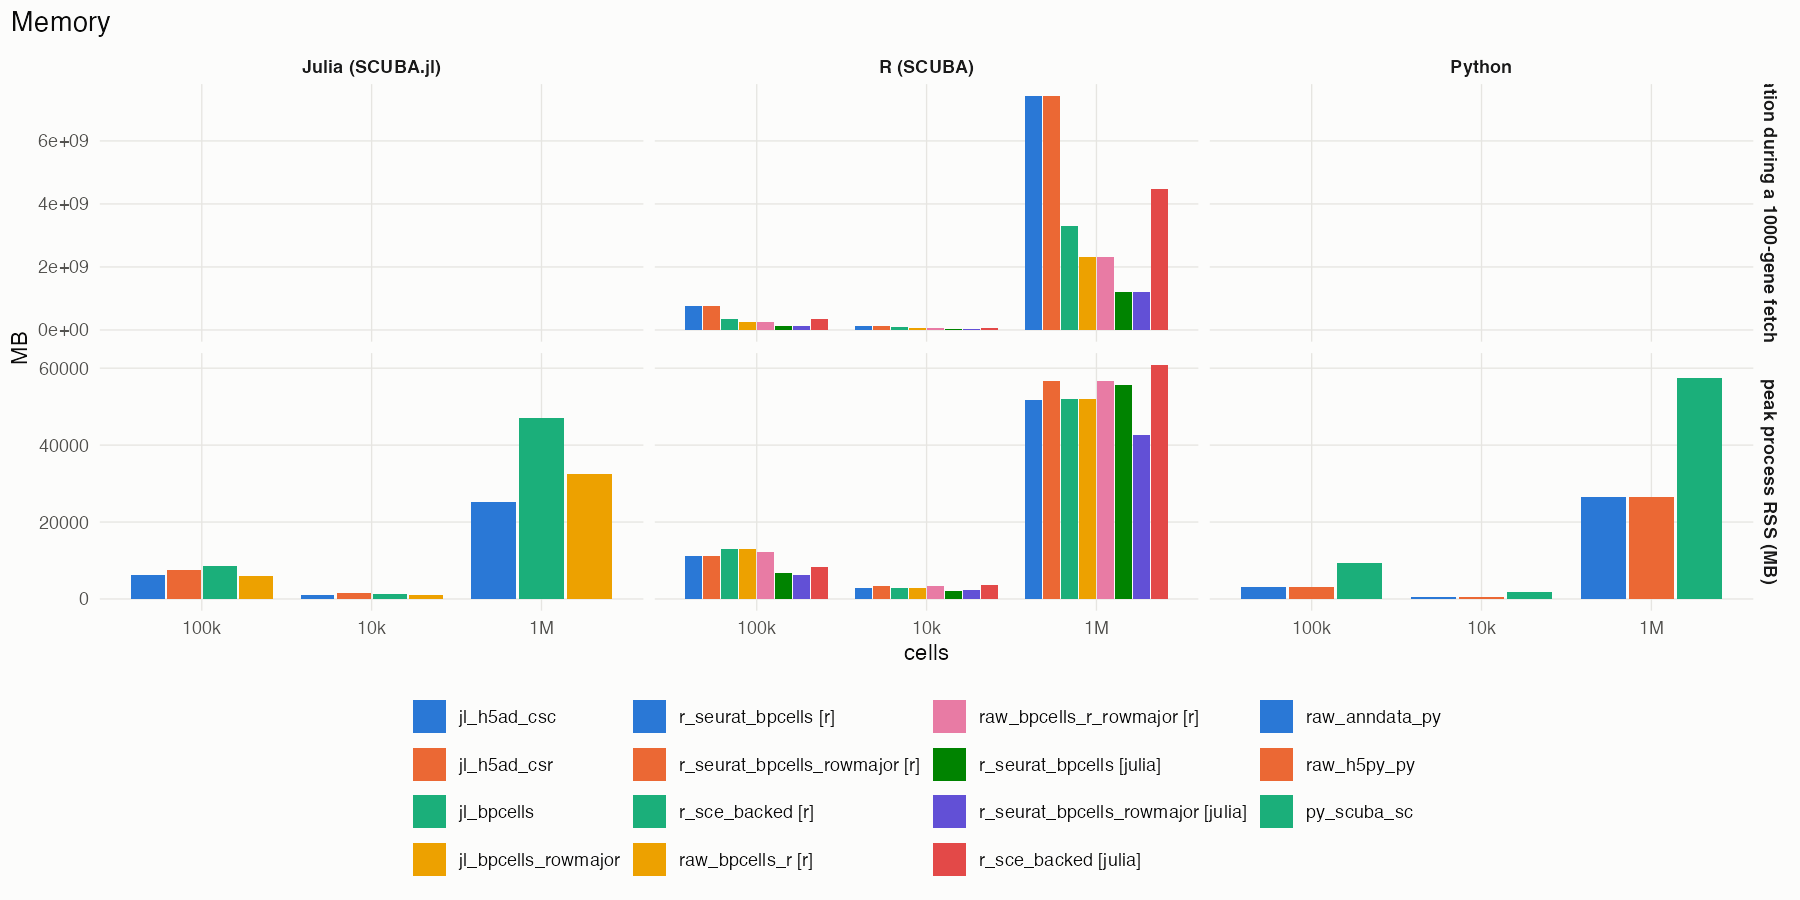
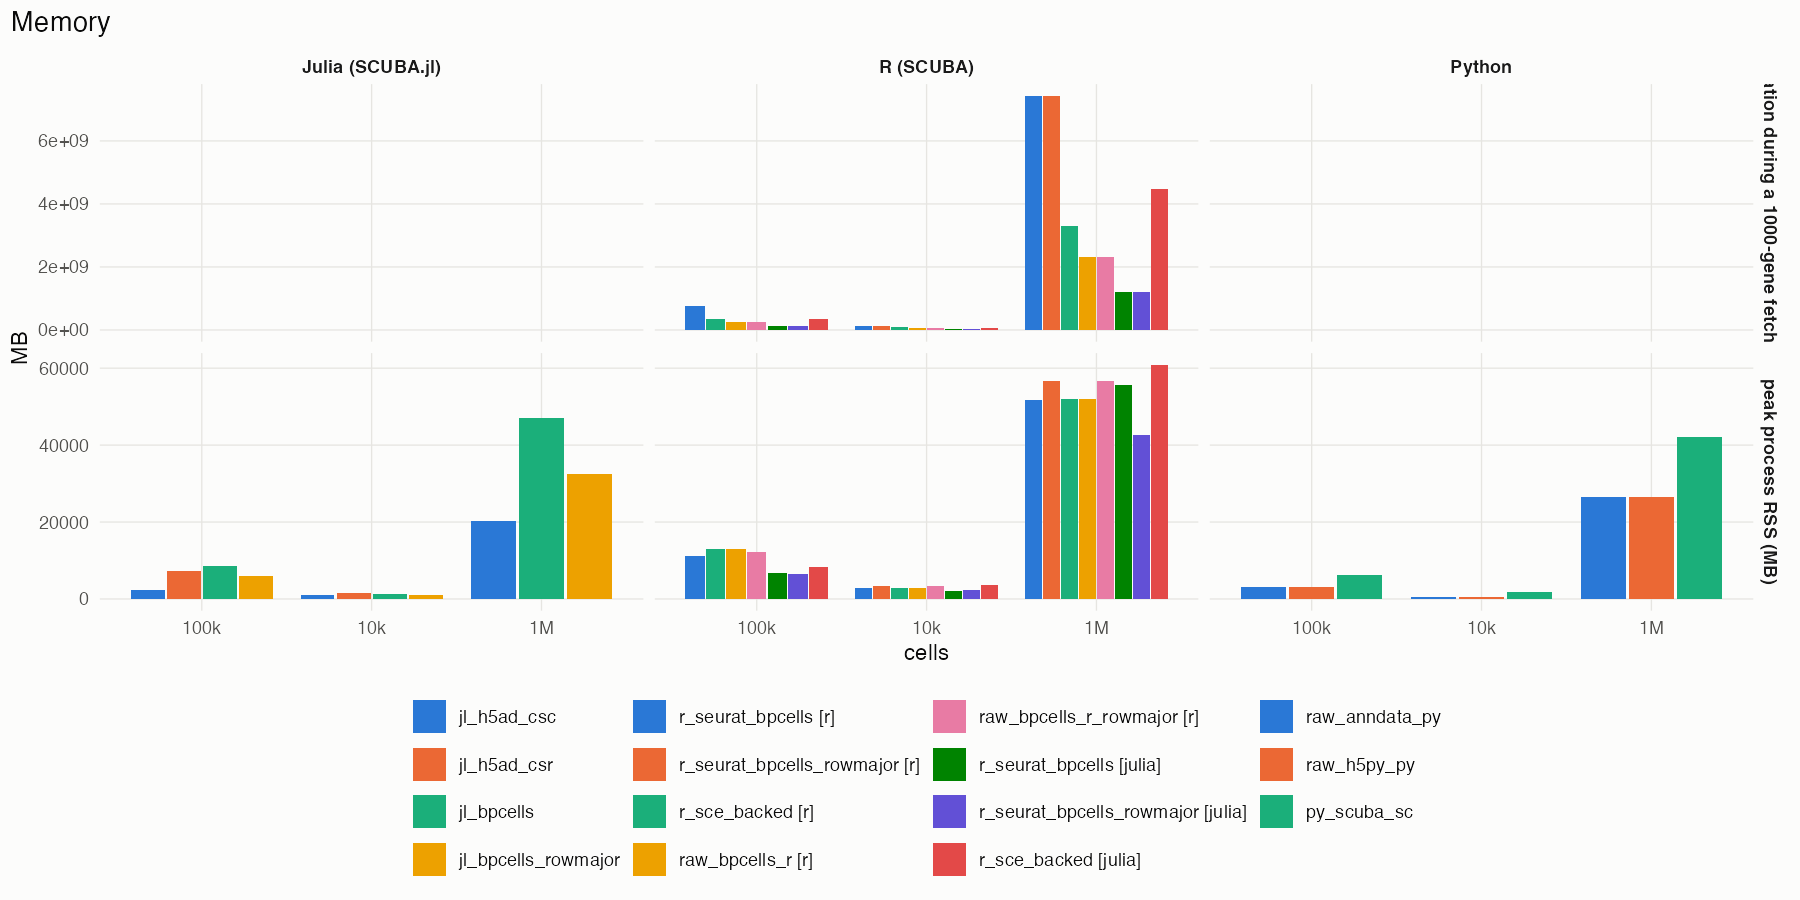
RCall extension: ship the R glue module and a precompile workload; merge keeps the latest run per cell
- The JuliaCall glue (module ScubaR) moves from an R string in the SCUBA R package into
  SCUBARCallExt so it is precompiled with the extension; the R package falls back to its
  embedded copy for older SCUBA.jl versions.
- PrecompileTools workload for the extension: starts embedded R explicitly (module __init__
  does not run while precompiling), installs the R helpers, builds tiny Seurat (dgCMatrix and
  BPCells in both storage orders) and SingleCellExperiment objects, and exercises every accessor
  and glue entry point. First call from R drops from ~1.4 s to ~0.6 s; the remainder is
  recompilation after JuliaCall loads (its RCall method additions invalidate the cached code).
- tools/build_sysimage.jl: --no-workload; RCall cannot be included on Julia 1.13
  (LLVM ERROR: Unsupported calling convention), see the memory/plan notes.
- bench: merge_results keeps only the most recent run id per implementation/scale/cache/kind
  so partial reruns supersede old rows; stale cold error rows removed; report regenerated with
  the fixed h5ad reader (jl_h5ad_csc 1000 genes at 1M: 8.7 s -> 1.0 s; py_scuba_sc 12.9 s -> 3.3 s).

diff --git a/bench/tools/merge_results.py b/bench/tools/merge_results.py
@@ -21,6 +21,7 @@ def main():
     ap = argparse.ArgumentParser()
     ap.add_argument("--results-dir", default=os.path.join(BENCH, "results"))
     ap.add_argument("--run-id", default=None)
+    ap.add_argument("--keep-all-runs", action="store_true", help="do not drop superseded runs")
     args = ap.parse_args()
     pattern = os.path.join(args.results_dir, "raw", args.run_id or "*", "*.csv")
     files = sorted(glob.glob(pattern))
@@ -36,6 +37,19 @@ def main():
         df["source_file"] = os.path.relpath(f, args.results_dir)
         frames.append(df)
     all_df = pd.concat(frames, ignore_index=True)
+    # Several run ids may cover the same (implementation, scale, cache_state) after a partial rerun:
+    # keep only the most recent run for each such cell so the report never mixes old and new code.
+    if "run_id" in all_df and all_df["run_id"].nunique() > 1 and not args.keep_all_runs:
+        # concurrency streams (phase == "concurrent") are produced by a different driver than the
+        # single-process harness, so they supersede each other independently
+        all_df["_kind"] = (all_df["phase"] == "concurrent").map({True: "concurrent", False: "single"})
+        key = ["implementation", "scale", "cache_state", "_kind"]
+        latest = all_df.groupby(key + ["run_id"])["timestamp"].max().reset_index()
+        latest = latest.sort_values("timestamp").drop_duplicates(key, keep="last")[key + ["run_id"]]
+        before = len(all_df)
+        all_df = all_df.merge(latest, on=key + ["run_id"], how="inner")
+        print(f"kept the latest run per implementation/scale/cache: {before} -> {len(all_df)} rows")
+    all_df = all_df.drop(columns=["_kind"], errors="ignore")
     for c in NUMERIC:
         if c in all_df:
             all_df[c] = pd.to_numeric(all_df[c], errors="coerce")

diff --git a/bench/report/summary.md b/bench/report/summary.md
@@ -1,6 +1,6 @@
 # SCUBA benchmark summary
 
-Generated 2026-10-20 23:34 MDT from `results.parquet` (844719 rows, 843976 ok).
+Generated 2026-10-21 00:30 MDT from `results.parquet` (843347 rows, 843242 ok).
 
 ## Interpretation
 
@@ -84,50 +84,48 @@ on its internal SSD.
 
 | implementation | genes=1 | genes=10 | genes=100 | genes=1000 |
 |---|---|---|---|---|
-| jl_h5ad_csc | 0.6 ms (IQR 0.5 ms–4.8 ms) | 7.3 ms (IQR 4.7 ms–7.9 ms) | 83.9 ms (IQR 77.2 ms–98.9 ms) | 909.5 ms (IQR 887.2 ms–939.8 ms) |
-| jl_h5ad_csr | 9.9 s (IQR 9.8 s–9.9 s) | 9.9 s (IQR 9.9 s–10.0 s) | 9.5 s (IQR 9.4 s–9.5 s) | 9.9 s (IQR 9.8 s–10.0 s) |
+| jl_h5ad_csc | 0.2 ms (IQR 0.2 ms–0.3 ms) | 1.4 ms (IQR 1.4 ms–1.4 ms) | 14.9 ms (IQR 14.4 ms–15.1 ms) | 119.0 ms (IQR 118.1 ms–119.6 ms) |
+| jl_h5ad_csr | 324.0 ms (IQR 313.6 ms–360.9 ms) | 326.0 ms (IQR 319.9 ms–330.2 ms) | 383.7 ms (IQR 371.7 ms–390.5 ms) | 421.4 ms (IQR 389.5 ms–428.1 ms) |
 | jl_bpcells | 317.3 ms (IQR 308.2 ms–322.9 ms) | 315.9 ms (IQR 305.4 ms–324.0 ms) | 367.6 ms (IQR 365.2 ms–371.8 ms) | 407.6 ms (IQR 402.0 ms–418.6 ms) |
 | jl_bpcells_rowmajor | 0.2 ms (IQR 0.2 ms–0.3 ms) | 0.8 ms (IQR 0.7 ms–0.8 ms) | 7.6 ms (IQR 7.2 ms–7.9 ms) | 70.9 ms (IQR 69.6 ms–71.8 ms) |
 | raw_anndata_py | 38.2 ms (IQR 37.2 ms–39.3 ms) | 40.6 ms (IQR 37.9 ms–41.2 ms) | 51.1 ms (IQR 47.4 ms–51.6 ms) | 113.5 ms (IQR 110.6 ms–115.5 ms) |
 | raw_h5py_py | 0.1 ms (IQR 0.1 ms–0.2 ms) | 1.2 ms (IQR 1.2 ms–1.2 ms) | 13.6 ms (IQR 12.8 ms–13.7 ms) | 134.5 ms (IQR 132.4 ms–135.3 ms) |
-| py_scuba_sc | 24.7 ms (IQR 23.4 ms–29.1 ms) | 37.3 ms (IQR 33.2 ms–61.0 ms) | 214.4 ms (IQR 206.1 ms–237.8 ms) | 1.5 s (IQR 1.5 s–1.5 s) |
+| py_scuba_sc | 1.2 ms (IQR 1.1 ms–1.2 ms) | 9.5 ms (IQR 4.7 ms–32.9 ms) | 88.4 ms (IQR 47.5 ms–93.7 ms) | 423.1 ms (IQR 368.1 ms–465.3 ms) |
 | r_seurat_bpcells [r] | 523.0 ms (IQR 519.0 ms–529.5 ms) | 595.0 ms (IQR 589.0 ms–616.0 ms) | 1.9 s (IQR 1.6 s–1.9 s) | 7.4 s (IQR 7.3 s–7.6 s) |
-| r_seurat_bpcells_rowmajor [r] | 223.0 ms (IQR 219.0 ms–229.5 ms) | 288.0 ms (IQR 281.0 ms–296.0 ms) | 1.2 s (IQR 1.2 s–1.5 s) | 6.9 s (IQR 6.9 s–7.1 s) |
 | r_sce_backed [r] | 50.0 ms (IQR 50.0 ms–54.0 ms) | 68.0 ms (IQR 67.0 ms–68.0 ms) | 264.0 ms (IQR 259.0 ms–273.0 ms) | 3.0 s (IQR 2.9 s–3.3 s) |
 | raw_bpcells_r [r] | 328.0 ms (IQR 317.5 ms–330.5 ms) | 328.0 ms (IQR 324.5 ms–333.0 ms) | 414.0 ms (IQR 409.5 ms–425.5 ms) | 781.0 ms (IQR 771.0 ms–1.1 s) |
 | raw_bpcells_r_rowmajor [r] | 10.0 ms (IQR 10.0 ms–10.0 ms) | 13.0 ms (IQR 13.0 ms–14.0 ms) | 55.0 ms (IQR 52.0 ms–58.0 ms) | 726.0 ms (IQR 439.0 ms–740.5 ms) |
 | r_seurat_bpcells [julia] | 316.0 ms (IQR 313.5 ms–319.0 ms) | 322.0 ms (IQR 319.0 ms–324.5 ms) | 432.0 ms (IQR 428.0 ms–438.5 ms) | 829.0 ms (IQR 773.0 ms–1.1 s) |
-| r_seurat_bpcells_rowmajor [julia] | 6.0 ms (IQR 5.0 ms–6.0 ms) | 9.0 ms (IQR 9.0 ms–12.5 ms) | 82.0 ms (IQR 44.5 ms–83.5 ms) | 480.0 ms (IQR 344.5 ms–768.5 ms) |
+| r_seurat_bpcells_rowmajor [julia] | 6.0 ms (IQR 6.0 ms–6.0 ms) | 10.0 ms (IQR 10.0 ms–10.0 ms) | 87.0 ms (IQR 51.0 ms–96.5 ms) | 462.0 ms (IQR 385.5 ms–809.5 ms) |
 | r_sce_backed [julia] | 19.0 ms (IQR 18.5 ms–25.0 ms) | 58.0 ms (IQR 57.0 ms–63.5 ms) | 485.0 ms (IQR 459.0 ms–501.0 ms) | 4.4 s (IQR 4.4 s–4.5 s) |
 
 ## 100k cells: metadata, reductions, cells (median)
 
 | implementation | fetch_cells:batch:b3 | fetch_cells:cell_type:T_cell | metadata:cell_type | metadata:full | metadata:nCount_RNA | reduction:X_pca|1-2 | reduction:X_pca|1-50 | reduction:X_umap|1-2 | unique_values:cell_type | unique_values:sample |
 |---|---|---|---|---|---|---|---|---|---|---|
-| jl_h5ad_csc | 13.1 ms | 13.9 ms | 5.8 ms | 29.1 ms | 0.2 ms | 19.7 ms | 496.8 ms | 18.3 ms | 1.3 ms | 1.3 ms |
-| jl_h5ad_csr | 12.6 ms | 13.4 ms | 5.7 ms | 29.8 ms | 0.2 ms | 18.9 ms | 512.7 ms | 17.5 ms | 1.3 ms | 1.3 ms |
+| jl_h5ad_csc | 12.7 ms | 14.1 ms | 5.6 ms | 29.7 ms | 0.2 ms | 18.3 ms | 454.7 ms | 18.1 ms | 1.4 ms | 1.3 ms |
+| jl_h5ad_csr | 12.7 ms | 13.7 ms | 6.1 ms | 29.0 ms | 0.2 ms | 20.4 ms | 470.1 ms | 19.0 ms | 1.4 ms | 1.4 ms |
 | jl_bpcells | 11.3 ms | 12.2 ms | 4.2 ms | 1.4 ms | 0.1 ms | 0.2 ms | 3.6 ms | 0.2 ms | 0.0 ms | 0.0 ms |
 | jl_bpcells_rowmajor | 12.8 ms | 13.8 ms | 4.5 ms | 1.5 ms | 0.1 ms | 0.2 ms | 3.8 ms | 0.2 ms | 0.0 ms | 0.0 ms |
 | raw_anndata_py | 98.6 ms | 103.8 ms | 200.5 ms | 0.1 ms | 0.1 ms | 0.7 ms | 1.8 ms | 0.2 ms | 192.1 ms | 185.0 ms |
-| py_scuba_sc | 24.2 ms | 35.3 ms | 225.9 ms | 88.5 ms | 24.3 ms | 45.8 ms | 599.4 ms | 44.9 ms | 1.6 ms | 1.5 ms |
+| py_scuba_sc | 24.3 ms | 33.2 ms | 197.9 ms | 59.9 ms | 1.6 ms | 20.2 ms | 559.6 ms | 18.6 ms | 1.5 ms | 1.5 ms |
 | r_seurat_bpcells [r] | 7.0 ms | 12.0 ms | 16.0 ms | 0.0 ms | 3.0 ms | 6.0 ms |  | 5.0 ms | 3.0 ms | 3.0 ms |
-| r_seurat_bpcells_rowmajor [r] | 7.0 ms | 11.0 ms | 15.0 ms | 1.0 ms | 3.0 ms | 5.0 ms |  | 4.0 ms | 4.0 ms | 3.0 ms |
 | r_sce_backed [r] | 5.0 ms | 8.0 ms | 16.0 ms | 8.0 ms | 4.0 ms | 25.0 ms |  | 25.0 ms | 5.0 ms | 5.0 ms |
 | r_seurat_bpcells [julia] | 19.0 ms | 21.0 ms | 26.0 ms | 188.0 ms | 8.0 ms | 16.0 ms | 198.0 ms | 16.0 ms | 25.0 ms | 25.0 ms |
-| r_seurat_bpcells_rowmajor [julia] | 20.0 ms | 21.0 ms | 27.0 ms | 154.0 ms | 8.0 ms | 15.0 ms | 184.0 ms | 16.0 ms | 26.0 ms | 25.0 ms |
+| r_seurat_bpcells_rowmajor [julia] | 6.0 ms | 10.0 ms | 14.0 ms | 0.0 ms | 3.0 ms | 4.0 ms |  | 4.0 ms | 3.0 ms | 3.0 ms |
 | r_sce_backed [julia] | 20.0 ms | 23.0 ms | 27.0 ms | 149.0 ms | 8.0 ms | 21.0 ms | 215.0 ms | 22.0 ms | 26.0 ms | 27.0 ms |
 
 ## 1M cells: feature fetch over all cells, warm (median, IQR)
 
 | implementation | genes=1 | genes=10 | genes=100 | genes=1000 |
 |---|---|---|---|---|
-| jl_h5ad_csc | 4.6 ms (IQR 2.8 ms–8.2 ms) | 59.0 ms (IQR 51.9 ms–74.3 ms) | 961.8 ms (IQR 870.5 ms–1.1 s) | 8.7 s (IQR 8.7 s–9.1 s) |
-| jl_h5ad_csr | 92.0 s (IQR 91.3 s–94.7 s) | NA | NA | NA |
+| jl_h5ad_csc | 1.2 ms (IQR 1.2 ms–1.3 ms) | 8.1 ms (IQR 7.9 ms–8.3 ms) | 74.9 ms (IQR 73.5 ms–77.6 ms) | 1.0 s (IQR 950.7 ms–1.2 s) |
+| jl_h5ad_csr | 3.7 s (IQR 3.2 s–3.7 s) | NA | NA | NA |
 | jl_bpcells | 3.2 s (IQR 3.2 s–3.2 s) | 3.3 s (IQR 3.3 s–3.3 s) | 3.8 s (IQR 3.8 s–3.8 s) | 5.0 s (IQR 4.9 s–5.0 s) |
 | jl_bpcells_rowmajor | 1.9 ms (IQR 1.9 ms–2.0 ms) | 8.2 ms (IQR 7.7 ms–8.3 ms) | 86.7 ms (IQR 86.0 ms–87.3 ms) | 1.7 s (IQR 1.6 s–1.9 s) |
 | raw_anndata_py | 497.4 ms (IQR 479.4 ms–500.7 ms) | 464.3 ms (IQR 459.3 ms–479.7 ms) | 504.2 ms (IQR 502.0 ms–519.1 ms) | 809.3 ms (IQR 807.3 ms–815.9 ms) |
 | raw_h5py_py | 0.1 ms (IQR 0.1 ms–0.1 ms) | 0.9 ms (IQR 0.8 ms–1.3 ms) | 13.1 ms (IQR 10.4 ms–14.6 ms) | 127.5 ms (IQR 126.8 ms–127.8 ms) |
-| py_scuba_sc | 157.9 ms (IQR 72.3 ms–181.0 ms) | 281.5 ms (IQR 254.9 ms–294.3 ms) | 1.5 s (IQR 1.4 s–1.6 s) | 12.9 s (IQR 12.1 s–13.2 s) |
+| py_scuba_sc | 7.7 ms (IQR 6.7 ms–16.8 ms) | 96.1 ms (IQR 89.8 ms–101.6 ms) | 426.0 ms (IQR 352.9 ms–482.2 ms) | 3.3 s (IQR 3.1 s–3.5 s) |
 | r_seurat_bpcells [r] | 5.5 s (IQR 5.5 s–5.6 s) | 6.5 s (IQR 6.2 s–6.6 s) | 14.2 s (IQR 14.0 s–14.3 s) | 70.6 s (IQR 69.9 s–73.0 s) |
 | r_seurat_bpcells_rowmajor [r] | 2.3 s (IQR 2.3 s–2.4 s) | 3.4 s (IQR 3.3 s–3.4 s) | 10.7 s (IQR 10.6 s–10.9 s) | 67.5 s (IQR 67.1 s–67.9 s) |
 | r_sce_backed [r] | 254.0 ms (IQR 251.0 ms–256.0 ms) | 438.0 ms (IQR 431.0 ms–450.0 ms) | 3.9 s (IQR 3.8 s–4.1 s) | 39.6 s (IQR 39.4 s–40.1 s) |
@@ -141,12 +139,12 @@ on its internal SSD.
 
 | implementation | fetch_cells:batch:b3 | fetch_cells:cell_type:T_cell | metadata:cell_type | metadata:full | metadata:nCount_RNA | reduction:X_pca|1-2 | reduction:X_pca|1-50 | reduction:X_umap|1-2 | unique_values:cell_type | unique_values:sample |
 |---|---|---|---|---|---|---|---|---|---|---|
-| jl_h5ad_csc | 147.0 ms | 157.7 ms | 56.5 ms | 389.6 ms | 1.7 ms | 204.9 ms | 4.9 s | 188.1 ms | 12.4 ms | 11.7 ms |
-| jl_h5ad_csr | 141.8 ms | 156.0 ms | 57.5 ms | 446.1 ms | 1.7 ms | 203.1 ms | 5.0 s | 187.9 ms | 13.4 ms | 12.0 ms |
+| jl_h5ad_csc | 140.6 ms | 143.1 ms | 59.9 ms | 441.2 ms | 1.3 ms | 196.6 ms | 4.8 s | 179.1 ms | 12.7 ms | 11.9 ms |
+| jl_h5ad_csr | 125.0 ms | 138.5 ms | 60.3 ms | 411.8 ms | 1.5 ms | 198.2 ms | 4.8 s | 182.4 ms | 12.8 ms | 12.1 ms |
 | jl_bpcells | 136.0 ms | 149.3 ms | 44.5 ms | 16.1 ms | 1.2 ms | 2.4 ms | 33.6 ms | 2.4 ms | 0.1 ms | 0.1 ms |
 | jl_bpcells_rowmajor | 132.8 ms | 142.0 ms | 44.8 ms | 15.6 ms | 1.1 ms | 2.3 ms | 35.2 ms | 2.3 ms | 0.1 ms | 0.1 ms |
 | raw_anndata_py | 55.3 ms | 85.2 ms | 130.3 ms | 0.3 ms | 0.3 ms | 12.4 ms | 44.9 ms | 0.6 ms | 108.9 ms | 78.1 ms |
-| py_scuba_sc | 236.1 ms | 331.5 ms | 212.4 ms | 954.4 ms | 66.6 ms | 397.9 ms | 5.5 s | 379.4 ms | 14.2 ms | 13.3 ms |
+| py_scuba_sc | 272.2 ms | 344.4 ms | 149.8 ms | 845.2 ms | 6.9 ms | 296.9 ms | 5.6 s | 279.5 ms | 14.5 ms | 13.7 ms |
 | r_seurat_bpcells [r] | 85.0 ms | 137.0 ms | 144.0 ms | 2.0 ms | 32.0 ms | 60.0 ms |  | 62.0 ms | 34.0 ms | 34.0 ms |
 | r_seurat_bpcells_rowmajor [r] | 88.0 ms | 133.0 ms | 140.0 ms | 2.0 ms | 28.0 ms | 56.0 ms |  | 53.0 ms | 33.0 ms | 35.0 ms |
 | r_sce_backed [r] | 68.0 ms | 99.0 ms | 140.0 ms | 44.0 ms | 30.0 ms | 123.0 ms |  | 133.0 ms | 33.0 ms | 34.0 ms |
@@ -158,12 +156,12 @@ on its internal SSD.
 
 | implementation | scale | first_call | open | startup |
 |---|---|---|---|---|
-| jl_h5ad_csc | 100k | 167.7 ms | 400.4 ms | 3.9 s |
+| jl_h5ad_csc | 100k | 96.1 ms | 398.4 ms | 1.1 s |
 | jl_h5ad_csc | 10k | 146.5 ms | 362.5 ms | 1.8 s |
-| jl_h5ad_csc | 1M | 336.3 ms | 714.0 ms | 1.6 s |
-| jl_h5ad_csr | 100k | 30.6 ms | 30.0 ms |  |
+| jl_h5ad_csc | 1M | 267.8 ms | 706.7 ms | 1.2 s |
+| jl_h5ad_csr | 100k | 35.8 ms | 39.4 ms |  |
 | jl_h5ad_csr | 10k | 5.2 ms | 8.8 ms |  |
-| jl_h5ad_csr | 1M | 326.5 ms | 259.7 ms |  |
+| jl_h5ad_csr | 1M | 337.1 ms | 304.7 ms |  |
 | jl_bpcells | 100k | 12.3 ms | 2.0 s |  |
 | jl_bpcells | 10k | 31.2 ms | 1.3 s | 1.2 s |
 | jl_bpcells | 1M | 151.1 ms | 7.9 s |  |
@@ -173,7 +171,6 @@ on its internal SSD.
 | r_seurat_bpcells [r] | 100k | 280.0 ms | 712.0 ms | 4.8 s |
 | r_seurat_bpcells [r] | 10k | 29.0 ms | 140.0 ms | 5.6 s |
 | r_seurat_bpcells [r] | 1M | 2.6 s | 5.3 s | 5.7 s |
-| r_seurat_bpcells_rowmajor [r] | 100k | 19.0 ms | 780.0 ms | 4.7 s |
 | r_seurat_bpcells_rowmajor [r] | 10k | 5.0 ms | 152.0 ms | 4.8 s |
 | r_seurat_bpcells_rowmajor [r] | 1M | 199.0 ms | 5.3 s | 4.8 s |
 | r_sce_backed [r] | 100k | 35.0 ms | 215.0 ms |  |
@@ -188,7 +185,7 @@ on its internal SSD.
 | r_seurat_bpcells [julia] | 100k | 314.5 ms | 748.0 ms | 6.7 s |
 | r_seurat_bpcells [julia] | 10k | 91.0 ms | 149.0 ms | 4.6 s |
 | r_seurat_bpcells [julia] | 1M | 1.4 s | 5.1 s | 4.7 s |
-| r_seurat_bpcells_rowmajor [julia] | 100k | 194.0 ms | 706.0 ms | 4.1 s |
+| r_seurat_bpcells_rowmajor [julia] | 100k | 10.0 ms | 738.0 ms | 4.2 s |
 | r_seurat_bpcells_rowmajor [julia] | 10k | 86.0 ms | 162.0 ms | 4.5 s |
 | r_seurat_bpcells_rowmajor [julia] | 1M | 466.0 ms | 5.1 s | 4.6 s |
 | r_sce_backed [julia] | 100k | 117.0 ms | 214.0 ms |  |
@@ -200,27 +197,21 @@ on its internal SSD.
 | raw_h5py_py | 100k | 0.3 ms | 49.9 ms |  |
 | raw_h5py_py | 10k | 0.2 ms | 14.7 ms |  |
 | raw_h5py_py | 1M | 0.2 ms | 403.2 ms |  |
-| py_scuba_sc | 100k | 394.8 ms | 5.8 s |  |
+| py_scuba_sc | 100k | 306.5 ms | 4.2 s | 32.9 ms |
 | py_scuba_sc | 10k | 367.0 ms | 5.4 s | 35.1 ms |
-| py_scuba_sc | 1M | 573.4 ms | 6.7 s |  |
+| py_scuba_sc | 1M | 479.8 ms | 5.1 s | 41.0 ms |
 
 ## Skipped and failed cells
 
 | implementation | engine | scale | status | note | rows |
 |---|---|---|---|---|---|
 | jl_h5ad_csr | native | 1M | skipped | rule: impl=jl_h5ad_csr scale=1M n_features>=10 | 63 |
-| jl_bpcells | native | 100k | error | BoundsError: attempt to access 1-element Vector{SubString{String}} at index [2] |  3 |
-| jl_bpcells_rowmajor | native | 100k | error | BoundsError: attempt to access 1-element Vector{SubString{String}} at index [2] |  3 |
-| jl_h5ad_csc | native | 100k | error | BoundsError: attempt to access 1-element Vector{SubString{String}} at index [2] |  3 |
 | r_sce_backed | r | 100k | error | NA/NaN argument |  3 |
 | r_seurat_bpcells | julia | 100k | error | NA/NaN argument |  3 |
 | r_seurat_bpcells | r | 100k | error | NA/NaN argument |  3 |
 | r_seurat_bpcells_rowmajor | julia | 100k | error | NA/NaN argument |  3 |
 | r_seurat_bpcells_rowmajor | r | 100k | error | NA/NaN argument |  3 |
 | raw_anndata_py | none | 100k | error | not enough values to unpack (expected 2, got 1) |  3 |
-| jl_bpcells | native | 1M | error | BoundsError: attempt to access 1-element Vector{SubString{String}} at index [2] |  2 |
-| jl_bpcells_rowmajor | native | 1M | error | BoundsError: attempt to access 1-element Vector{SubString{String}} at index [2] |  2 |
-| jl_h5ad_csc | native | 1M | error | BoundsError: attempt to access 1-element Vector{SubString{String}} at index [2] |  2 |
 | r_sce_backed | r | 1M | error | NA/NaN argument |  2 |
 | r_seurat_bpcells | julia | 1M | error | NA/NaN argument |  2 |
 | r_seurat_bpcells | r | 1M | error | NA/NaN argument |  2 |
@@ -236,7 +227,7 @@ on its internal SSD.
 | r_seurat_bpcells | r | 100k | skipped | legacy fetch_reduction supports exactly two dims |  1 |
 | r_seurat_bpcells | r | 10k | skipped | legacy fetch_reduction supports exactly two dims |  1 |
 | r_seurat_bpcells | r | 1M | skipped | legacy fetch_reduction supports exactly two dims |  1 |
-| r_seurat_bpcells_rowmajor | r | 100k | skipped | legacy fetch_reduction supports exactly two dims |  1 |
+| r_seurat_bpcells_rowmajor | julia | 100k | skipped | legacy fetch_reduction supports exactly two dims |  1 |
 | r_seurat_bpcells_rowmajor | r | 10k | skipped | legacy fetch_reduction supports exactly two dims |  1 |
 | r_seurat_bpcells_rowmajor | r | 1M | skipped | legacy fetch_reduction supports exactly two dims |  1 |
 
